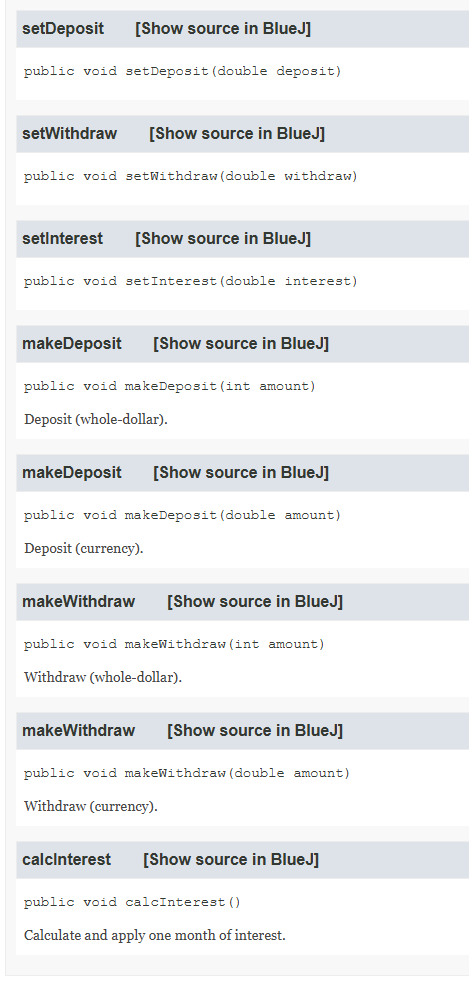
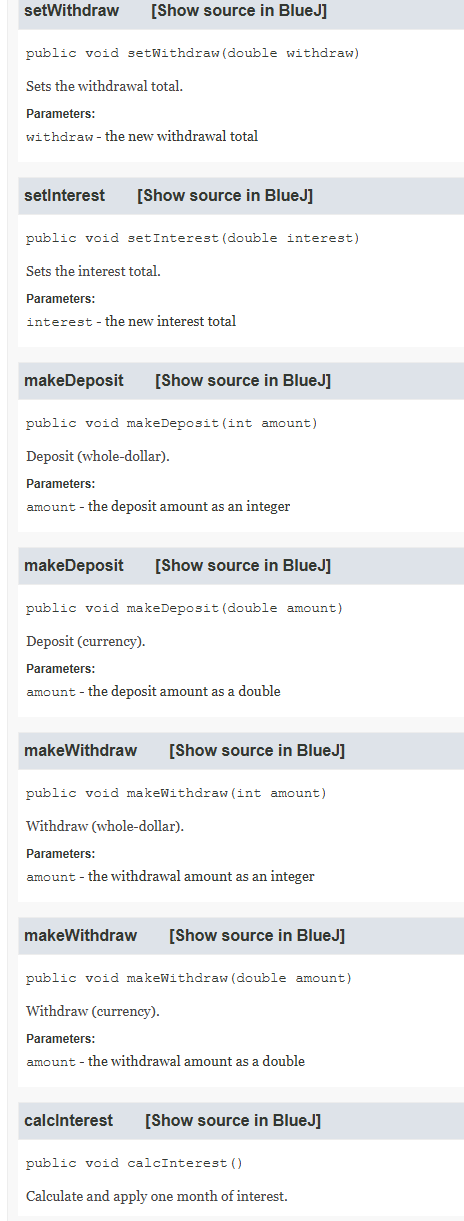
v1.1

diff --git a/BankAccount.java b/BankAccount.java
@@ -6,8 +6,8 @@
  * 4) Provides getters/setters for all fields.
  *
  * @author Brendon Grepo, bgrepo@student.sdccd.edu
- * @version v1.0
- * @since 10/19/2025
+ * @version v1.1
+ * @since 10/25/2025
  */
 public class BankAccount {
     //// field variables (private)
@@ -50,56 +50,110 @@ public class BankAccount {
     }
 
     //// getters and setters (public)
+    /**
+     * Gets the current balance.
+     * @return the current account balance
+     */
     public double getBalance()  { return balance;  }
 
+    /**
+     * Gets the total deposits made.
+     * @return the total deposit amount
+     */
     public double getDeposit()  { return deposit;  }
 
+    /**
+     * Gets the total withdrawals made.
+     * @return the total withdrawal amount
+     */
     public double getWithdraw() { return withdraw; }
 
+    /**
+     * Gets the total interest earned.
+     * @return the total interest amount
+     */
     public double getInterest() { return interest; }
 
+    /**
+     * Gets the monthly interest rate.
+     * @return the monthly interest rate
+     */
     public double getMonthlyIntRate() { return monthlyIntRate; }
 
+    /**
+     * Sets the monthly interest rate using an APR percentage.
+     * @param aprPercent the annual percentage rate as a percent (ie 3.5 for 3.5%)
+     */
     public void setMonthlyIntRate(double aprPercent) {
         monthlyIntRate = (aprPercent / 100.0) / 12.0;
     }
 
+    /**
+     * Sets the balance.
+     * @param balance the new balance value
+     */
     public void setBalance(double balance)     { this.balance = balance; }
 
+    /**
+     * Sets the deposit total.
+     * @param deposit the new deposit total
+     */
     public void setDeposit(double deposit)     { this.deposit = deposit; }
 
+    /**
+     * Sets the withdrawal total.
+     * @param withdraw the new withdrawal total
+     */
     public void setWithdraw(double withdraw)   { this.withdraw = withdraw; }
 
+    /**
+     * Sets the interest total.
+     * @param interest the new interest total
+     */
     public void setInterest(double interest)   { this.interest = interest; }
 
     //// input methods (public)
-    /** Deposit (whole-dollar). */
+    /**
+     * Deposit (whole-dollar).
+     * @param amount the deposit amount as an integer
+     */
     public void makeDeposit(int amount) {
         double a = amount;
         balance += a;
         deposit += a;
     }
 
-    /** Deposit (currency). */
+    /**
+     * Deposit (currency).
+     * @param amount the deposit amount as a double
+     */
     public void makeDeposit(double amount) {
         balance += amount;
         deposit += amount;
     }
 
-    /** Withdraw (whole-dollar). */
+    /**
+     * Withdraw (whole-dollar).
+     * @param amount the withdrawal amount as an integer
+     */
     public void makeWithdraw(int amount) {
         double a = amount;
         balance -= a;
         withdraw += a;
     }
 
-    /** Withdraw (currency). */
+    /**
+     * Withdraw (currency).
+     * @param amount the withdrawal amount as a double
+     */
     public void makeWithdraw(double amount) {
         balance -= amount;
         withdraw += amount;
     }
 
-    /** Calculate and apply one month of interest. */
+    /**
+     * Calculate and apply one month of interest.
+     */
     public void calcInterest() {
         double monthInt = balance * monthlyIntRate;
         balance += monthInt;
